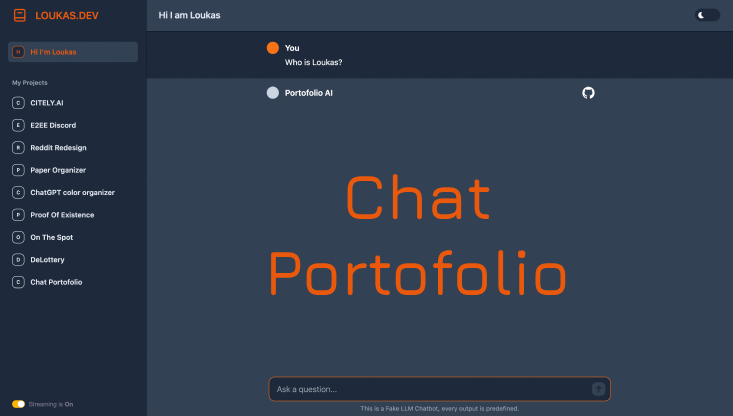
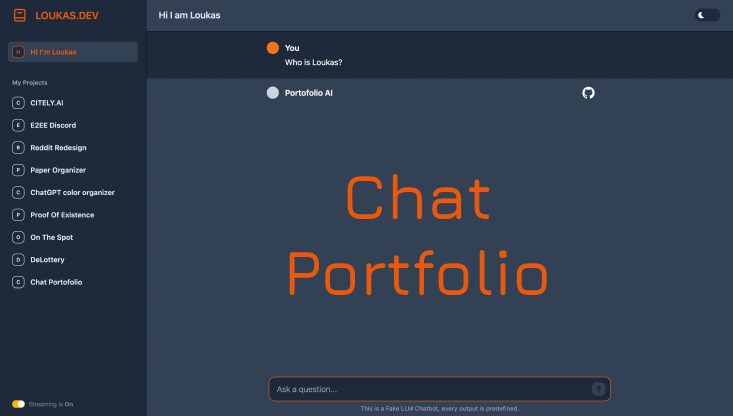
Added SEO Meta

Changed region(s): [[0.3602, 0.5938, 0.7804, 0.7188]]

diff --git a/components/SidebarContents.vue b/components/SidebarContents.vue
@@ -140,9 +140,9 @@ let projects = ref([
         description: 'Describe the project called Project 7',
         id: 'DeLottery'
     },{
-        name: 'Chat Portofolio',
+        name: 'Chat Portfolio',
         description: 'Describe the project called Project 7',
-        id: 'Chat-Portofolio'
+        id: 'Chat-Portfolio'
     },
     
 ])

diff --git a/public/projects/Chat-Portfolio/README.md b/public/projects/Chat-Portfolio/README.md
@@ -1,8 +1,8 @@
-# Chat Portofolio
+# Chat Portfolio
 
-Demo: [Chat Portofolio](https://loukas.dev)
+Demo: [Chat Portfolio](https://loukas.dev)
 
-A Web Portofolio to present my projects and skills. It was inspired by the ChatGPT User Interface.
+A Web Portfolio to present my projects and skills. It was inspired by the ChatGPT User Interface.
 
 Every project is displayed in a chat-like interface, and rendered in a stream like fashion. There is no connection to a real LLM, all answers are predefined based on the markdown files in the */public/projects* folder.
 
